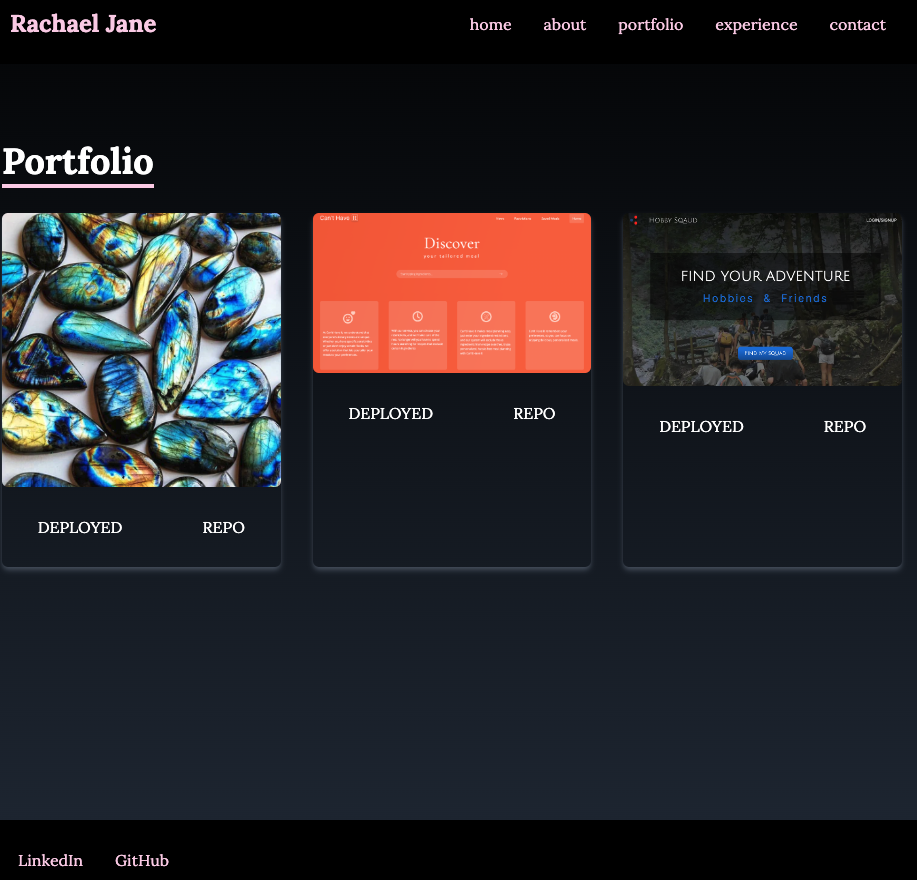
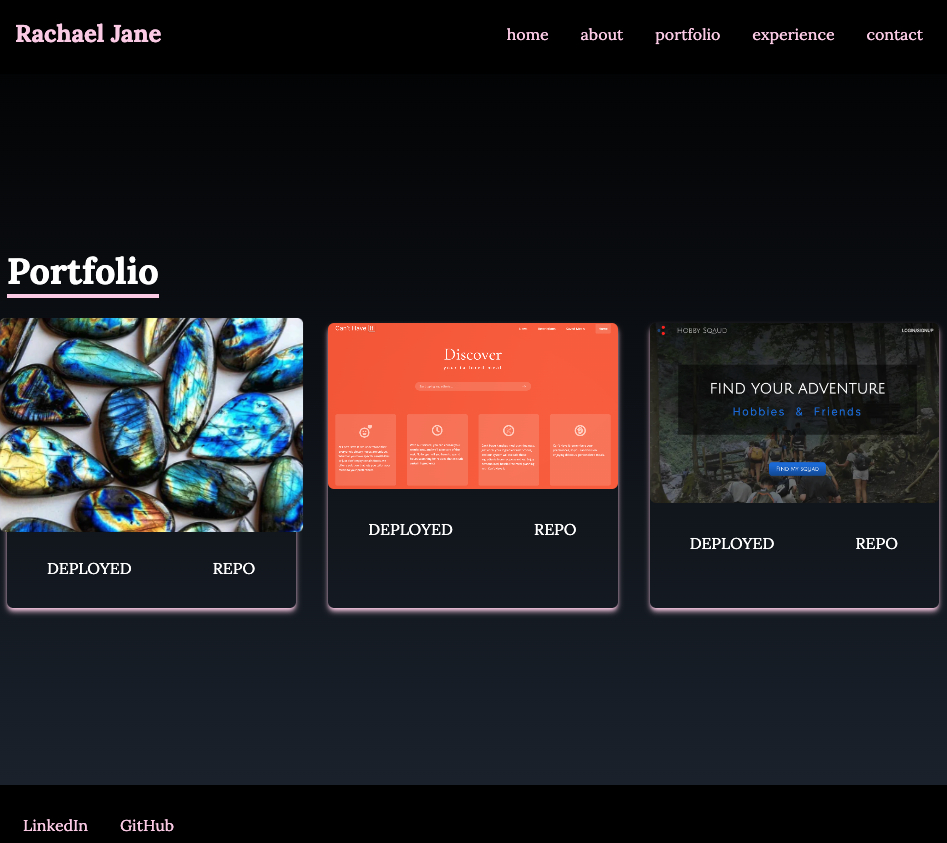
added minor updates

diff --git a/src/components/PortfolioProjects.jsx b/src/components/PortfolioProjects.jsx
@@ -8,15 +8,18 @@ const Portfolio = () => {
   const portfolios = [
     {
         id: 1,
-        src:sheCodesProject
+        src:sheCodesProject,
+        title: "SheCodes"
     },
     {
       id: 2,
-      src:cantHaveIt
+      src:cantHaveIt,
+      title: "Can't Have It!"
   },
   {
     id: 3,
-    src:hobbySquad
+    src:hobbySquad,
+    title: "HobbySquad",
 },
   ]
   return(
@@ -29,10 +32,10 @@ const Portfolio = () => {
       <div className="grid sm:grid-cols-2 md:grid-cols-3 gap-8 px-12 sm:px-0">
       {portfolios.map(({ id, src }) => (
 
-        <div key={id} className="shadow-md shadow-gray-600 rounded-md">
+        <div key={id} className="shadow-md shadow-pink-200 rounded-md">
           
           <img src={src} 
-          alt="project"
+          alt="projects"
           className="rounded-md duration-200 hover:scale-105" />
           <div className=" flex items-center justify-center">
             <button className="w-1/2 px-6 py-3 m-4 duration-200 hover:scale-105">DEPLOYED</button>

diff --git a/src/components/Home.jsx b/src/components/Home.jsx
@@ -23,7 +23,7 @@ const Home = () => {
             development version. And here I am!
             </p>
             < p className="text-gray-300 py-4 max-w-md px-2">
-            Welcome to my React portfolio. AKA my work in progress.
+            Welcome to my portfolio. AKA progress report.
             </p>
             
           <div>
